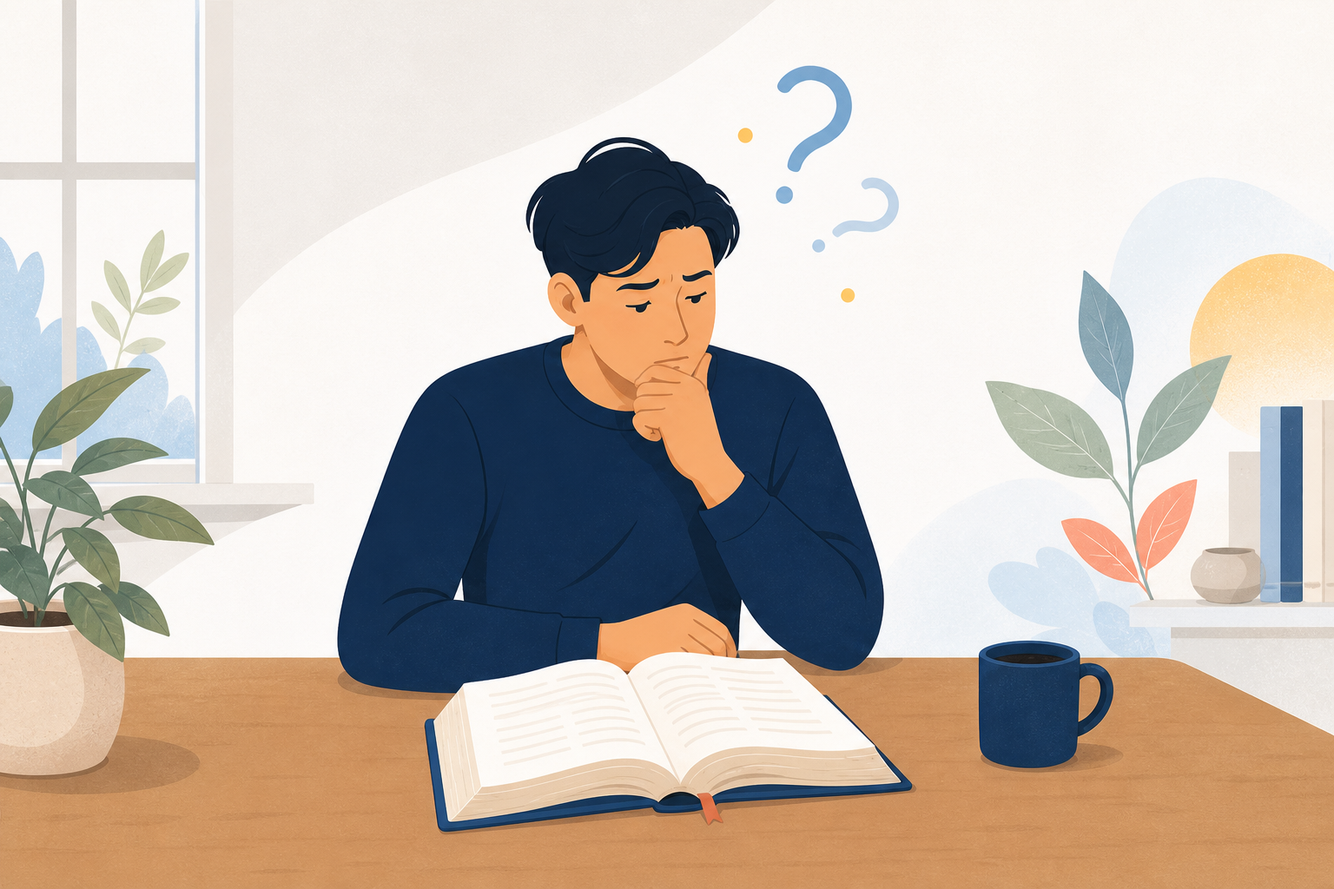
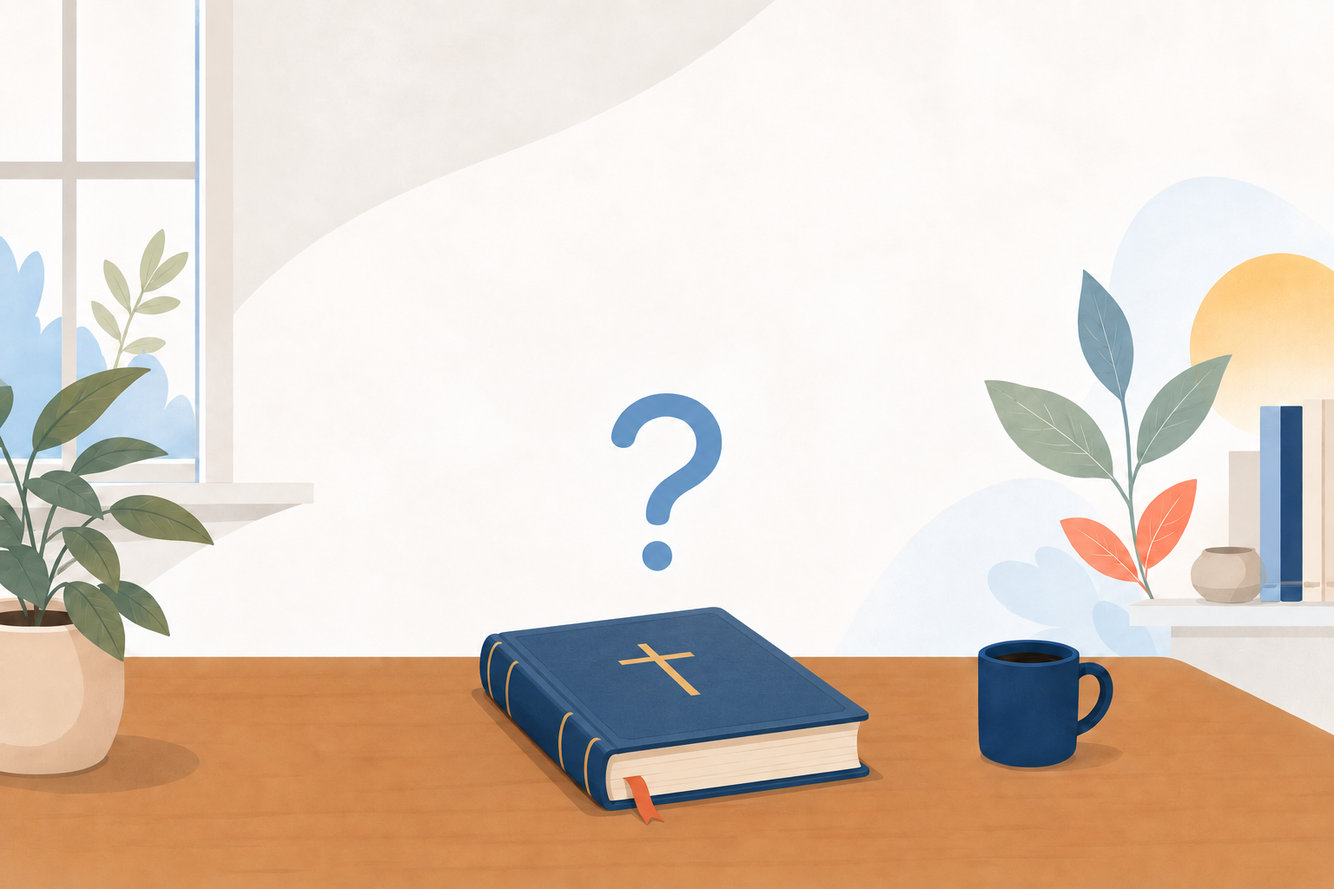
Update Bible Recorder multilingual story pages

diff --git a/rab/index_ko.html b/rab/index_ko.html
@@ -3,7 +3,7 @@
 <head>
   <meta charset="utf-8">
   <meta name="viewport" content="width=device-width, initial-scale=1">
-  <meta name="description" content="한 절씩 읽고, 한 장씩 모아, 한 권을 완성하는 성경낭독녹음 이야기">
+  <meta name="description" content="손가락으로 짚고, 눈으로 보고, 입으로 읽고, 귀로 듣는 성경낭독녹음 이야기">
   <title>성경낭독녹음 | FCI</title>
   <link rel="icon" href="../images/favicon_FCILOGO_W.ico">
   <link rel="stylesheet" href="../assets/fci-large-text.css">
@@ -98,7 +98,7 @@
     .store-links a { border-radius: 8px; transition: transform 0.2s ease; }
     .store-links a:hover, .store-links a:focus-visible { transform: translateY(-2px); }
     .store-links img { display: block; width: auto; height: 42px; }
-    footer { padding: 0 20px 34px; color: var(--muted); text-align: center; font-size: 12px; }
+    footer { margin-top: 23px; padding: 14px 20px 34px; border-top: 1px solid var(--line); color: var(--muted); text-align: left; font-size: .82rem; }
 
     @media (max-width: 820px) {
       .page { padding: 18px 14px 28px; }
@@ -126,7 +126,6 @@
       .app-icon { width: 64px; height: 64px; border-radius: 18px; }
       .brand-fci-home { width: 34px; }
       .brand-copy h1 { white-space: nowrap; }
-      .brand-copy .hero-copy { white-space: nowrap; overflow: hidden; }
       .story-card summary { grid-template-columns: 38px minmax(0, 1fr) 28px; gap: 10px; min-height: 60px; padding: 11px 12px; }
       .story-number { width: 36px; height: 36px; }
       .story-content { padding: 0 12px 16px; }
@@ -183,7 +182,7 @@
       <section class="intro" aria-label="성경낭독녹음 소개">
         <div class="brand-row">
           <img class="app-icon" src="../images/Logo_RAB.png" alt="성경낭독녹음 앱 아이콘">
-          <div class="brand-copy"><span class="kicker">A New Way to Read the Bible</span><h1>성경낭독녹음</h1><p class="hero-copy">한 절씩 읽고, 한 장씩 모아, 한 권을 완성합니다.</p></div>
+          <div class="brand-copy"><h1>성경낭독녹음</h1><p class="hero-copy">손가락으로 짚고, 눈으로 보고, 입으로 읽고, 귀로 듣는 말씀</p></div>
           <a class="brand-fci-home" href="../home/index_ko.html" aria-label="FCI 홈으로 이동"><picture><source media="(max-width: 640px)" srcset="../images/FCI_basic_logo.png"><img src="../images/FCILOGOwithText.png" alt="FCI Factory of Creative Imagination"></picture></a>
         </div>
       </section>
@@ -194,35 +193,31 @@
         <div class="story-list">
           <details class="story-card">
             <summary><span class="story-number">01</span><h2 class="story-title">성경, 읽어 보셨나요?</h2><span class="chevron" aria-hidden="true">⌄</span></summary>
-            <div class="story-content"><div class="story-layout"><div class="story-copy"><p>눈으로만 읽거나 귀로만 듣는 것이 아니라, 내 목소리로 소리 내어 읽어 보신 적 있으신가요?</p><p>성경은 원래 소리 내어 읽는 말씀이 아니었을까요?</p></div><div class="story-art-wrap"><img class="story-art" src="assets/rab-index2-01.png" alt="성경 앞에서 어떻게 읽을지 고민하는 사람"></div></div></div>
+            <div class="story-content"><div class="story-layout"><div class="story-copy"><p>눈으로만 읽거나 귀로만 듣는 것이 아니라, 소리 내어 읽어 보신 적 있으신가요?</p><p>성경은 원래 소리 내어 읽는 말씀이 아니었을까요?</p></div><div class="story-art-wrap"><img class="story-art" src="assets/rab-index2-01.png" alt="닫힌 성경책 위에 물음표가 있는 모습"></div></div></div>
           </details>
           <details class="story-card">
-            <summary><span class="story-number">02</span><h2 class="story-title">한 절씩 읽으면 무엇이 달라질까요?</h2><span class="chevron" aria-hidden="true">⌄</span></summary>
-            <div class="story-content"><div class="story-layout"><div class="story-copy"><p>성경을 읽었는데도 읽은 것 같지 않을 때가 있지 않으셨나요?</p><p>말씀이 쉽게 지나가는 것처럼 느껴질 때도 있으셨죠?</p><p>그 말씀이 내 목소리로 남는다고 생각하면,<br>또는 누군가에게 직접 읽어 준다고 생각하면 조금 달라지지 않을까요?</p></div><div class="story-art-wrap"><img class="story-art" src="assets/rab-index2-02.png" alt="성경을 소리 내어 읽는 사람"></div></div></div>
+            <summary><span class="story-number">02</span><h2 class="story-title">성경을 읽는 일, 쉽지 않으시죠?</h2><span class="chevron" aria-hidden="true">⌄</span></summary>
+            <div class="story-content"><div class="story-layout"><div class="story-copy"><p>읽어야지 하면서도 자꾸 미루게 되지 않으셨나요?</p><p>성경을 읽으려고 해도 성경을 펼치는 일부터 쉽지 않으셨죠?</p><p>그리고, 성경을 읽었는데도 읽은 것 같지 않을 때도 있지 않으셨나요?</p><p>말씀이 쉽게 지나가는 것처럼 느껴질 때도 있으셨죠?</p></div><div class="story-art-wrap"><img class="story-art" src="assets/rab-index2-02.png" alt="성경을 펼쳐 놓고 고민하는 사람"></div></div></div>
           </details>
           <details class="story-card">
-            <summary><span class="story-number">03</span><h2 class="story-title">읽은 말씀은 어떻게 남을까요?</h2><span class="chevron" aria-hidden="true">⌄</span></summary>
-            <div class="story-content"><div class="story-layout"><div class="story-copy"><p>AI 음성으로 읽어 주는 성경을 들어 보신 적 있으신가요? 많이 어색하죠.</p><p>성우나 유명인이 읽어 주는 성경도 물론 좋겠지만,<br>우리 아이들과 손주들에게 우리의 목소리로 읽은 성경을 남겨 줄 수 있다면 어떨까요?</p><p>오늘 읽은 말씀을 당신의 목소리로 남길 수 있다면 어떨까요?</p></div><div class="story-art-wrap"><img class="story-art" src="assets/rab-index2-03.png" alt="어른의 목소리가 아이에게 전해지는 모습"></div></div></div>
+            <summary><span class="story-number">03</span><h2 class="story-title">성경낭독녹음, 성경을 읽는 새로운 방법입니다.</h2><span class="chevron" aria-hidden="true">⌄</span></summary>
+            <div class="story-content"><div class="story-layout"><div class="story-copy"><p>한 절씩 손가락으로 짚어가며, 눈으로 보고, 입으로 읽고, 귀로 듣기 때문에 온전히 말씀에 집중할 수 있습니다.</p><p>하루 3분만이라도, 하나님과 나만의 시간을 만들어, 성경낭독녹음을 해 보세요.</p><p>중요한 것은 녹음 파일을 남기는 것만이 아니라, 말씀에 집중하는 시간을 만드는 것입니다.</p><p>혹시 누군가 듣게 되어 어색하더라도 “녹음 중이에요.”라고 말하면 도움이 될 것입니다.</p></div><div class="story-art-wrap"><img class="story-art" src="assets/rab-index2-03.png" alt="휴대폰을 들고 한 절을 짚으며 소리 내어 읽는 여성"></div></div></div>
           </details>
           <details class="story-card">
-            <summary><span class="story-number">04</span><h2 class="story-title">성경낭독녹음으로 읽어보세요.</h2><span class="chevron" aria-hidden="true">⌄</span></summary>
-            <div class="story-content"><div class="story-layout"><div class="story-copy"><p>당신이 읽은 말씀은 당신의 목소리 그대로 한 절씩 녹음되어 저장됩니다.</p><p>한 절의 녹음이 모여 한 장의 낭독 파일이 되고, 한 장의 기록이 모여 한 권의 낭독 파일이 됩니다.</p><p>Google Drive 백업과 복원을 통해 휴대폰을 바꾸어도 소중한 낭독 기록을 보관할 수 있습니다.</p><p>교회와 공동체에서는 함께 성경을 읽고, 성경읽기 대회를 진행할 수도 있습니다.</p></div><div class="story-art-wrap"><img class="story-art" src="assets/rab-index2-04.png" alt="여러 사람이 함께 성경을 읽는 모습"><span class="story-art-logo"><img src="../images/Logo_RAB.png" alt="성경낭독녹음 로고"></span></div></div>
+            <summary><span class="story-number">04</span><h2 class="story-title">오늘부터 한 절씩 시작해 보세요.</h2><span class="chevron" aria-hidden="true">⌄</span></summary>
+            <div class="story-content"><div class="story-layout"><div class="story-copy"><p>읽은 말씀은 내 목소리로 녹음되어 저장됩니다.</p><p>Google Drive 백업과 복원을 통해 휴대폰을 바꾸어도 소중한 기록을 지킬 수 있습니다.</p><p>교회와 공동체에서는 함께 성경을 읽고, 성경읽기 대회로 서로 권면할 수도 있습니다.</p><p>한 절이 모여 한 장이 되고, 한 장이 모여 한 권이 되어, 온전히 나에게 주시는 말씀이 됩니다.</p></div><div class="story-art-wrap"><img class="story-art" src="assets/rab-index2-04.png" alt="여러 사람이 스마트폰으로 함께 성경을 읽는 모습"><span class="story-art-logo"><img src="../images/Logo_RAB.png" alt="성경낭독녹음 로고"></span></div></div>
               <!-- 다국어 버전 제작 시 아래 solution-videos 블록과 관련 스크립트를 제거합니다. 한국어 버전에만 영상을 제공합니다. -->
               <div class="solution-videos"><h3>성경낭독녹음은 이렇게 시작됩니다.</h3><div class="video-grid"><article class="video-card"><div class="video-frame"><button class="video-poster" type="button" data-video-id="wHFEWlhePFA" aria-label="성경을 소리 내어 읽고 녹음하는 영상 재생" style="background-image:url('https://i.ytimg.com/vi/wHFEWlhePFA/hqdefault.jpg')"><span class="play" aria-hidden="true"></span></button></div><p class="video-title">성경을 소리 내어 읽고 녹음하는 이야기</p></article><article class="video-card"><div class="video-frame"><button class="video-poster" type="button" data-video-id="ojqtIRVxbxk" aria-label="목소리로 남기는 성경 이야기 영상 재생" style="background-image:url('https://i.ytimg.com/vi/ojqtIRVxbxk/hqdefault.jpg')"><span class="play" aria-hidden="true"></span></button></div><p class="video-title">내 목소리로 남기는 성경 이야기</p></article></div></div></div>
-          </details>
-          <details class="story-card">
-            <summary><span class="story-number">05</span><h2 class="story-title">오늘부터 한 절씩 시작해 보세요.</h2><span class="chevron" aria-hidden="true">⌄</span></summary>
-            <div class="story-content"><div class="story-layout"><div class="story-copy"><p>오늘 읽은 한 절이 내 목소리로 남는 기록이 됩니다.</p><p><strong>한 절씩 읽고, 한 장씩 모아, 한 권을 완성합니다.</strong></p><p>그리고 그 한 권이 성경통독으로 이어집니다.</p><p>성경낭독녹음과 함께 오늘부터 한 절씩 시작해 보세요.</p></div><div class="story-art-wrap"><img class="story-art" src="assets/rab-index2-05.png" alt="녹음에서 성경책으로 이어지는 여정"></div></div></div>
           </details>
         </div>
       </section>
 
       <section class="closing" aria-label="성경낭독녹음 다운로드">
-        <div class="closing-copy"><p>오늘 읽고 녹음한 한 절이<br>당신을 위한 말씀으로 남을 것입니다.</p><span>읽는 말씀에서, 남기는 말씀으로.</span></div>
+        <div class="closing-copy"><p>한 절의 말씀에,<br>손과 눈과 입과 귀를 모아 온전히 집중해 보세요.</p><span>보거나 듣는 말씀에서, 읽는 말씀으로.</span></div>
         <div class="store-links"><a href="https://apps.apple.com/app/id1554443046" target="_blank" rel="noopener"><img src="../images/Download_apple.png" alt="App Store에서 다운로드"></a><a href="https://play.google.com/store/apps/details?id=life.fci.recordaloudbible" target="_blank" rel="noopener"><img src="../images/Download_google.png" alt="Google Play에서 다운로드"></a></div>
       </section>
     </main>
-    <footer>Copyright FCI. All rights reserved.</footer>
+    <footer><span>© FCI Inc. Factory of Creative Imagination.</span></footer>
   </div>
   <!-- 다국어 버전 제작 시 위 영상 블록과 함께 아래 영상 재생 스크립트도 제거합니다. -->
   <script>

diff --git a/rab/index_ja.html b/rab/index_ja.html
@@ -3,7 +3,7 @@
 <head>
   <meta charset="utf-8">
   <meta name="viewport" content="width=device-width, initial-scale=1">
-  <meta name="description" content="一節ずつ読み、一章ずつ重ね、一冊を完成する聖書音読録音。自分の声で聖書を読み、記録します。">
+  <meta name="description" content="指で一節をなぞり、目で見て、口で読み、耳で聞く。聖書を読む新しい方法です。">
   <title>聖書音読録音 | FCI</title>
   <link rel="icon" href="../images/favicon_FCILOGO_W.ico">
   <style>
@@ -52,7 +52,7 @@
     .store-links a { border-radius:8px; transition:transform .2s ease; }
     .store-links a:hover,.store-links a:focus-visible { transform:translateY(-2px); }
     .store-links img { display:block; width:auto; height:42px; }
-    footer { padding:0 20px 34px; color:var(--muted); text-align:center; font-size:12px; }
+    footer { margin-top:23px; padding:14px 20px 34px; border-top:1px solid var(--line); color:var(--muted); text-align:left; font-size:.82rem; }
     @media (max-width:820px) {
       .page { padding:18px 14px 28px; }
       .story-layout { display:block; }
@@ -85,23 +85,22 @@
       <section class="intro" aria-label="聖書音読録音の紹介">
         <div class="brand-row">
           <img class="app-icon" src="../images/Logo_RAB.png" alt="聖書音読録音アプリアイコン">
-          <div class="brand-copy"><span class="kicker">聖書を読む新しい方法</span><h1>聖書音読録音</h1><p class="hero-copy">一節ずつ読み、一章ずつ積み重ね、<br>一冊を完成させます。</p></div>
+          <div class="brand-copy"><h1>聖書音読録音</h1><p class="hero-copy">指で一節をなぞり、目で見て、口で読み、耳で聞く聖書</p></div>
           <a class="brand-fci-home" href="../home/index_ja.html" aria-label="FCIホームへ移動"><picture><source media="(max-width:640px)" srcset="../images/FCI_basic_logo.png"><img src="../images/FCILOGOwithText.png" alt="FCI Factory of Creative Imagination"></picture></a>
         </div>
       </section>
       <section class="storyline" aria-label="聖書音読録音のストーリー">
         <p class="section-heading">下のタイトルを選んで、聖書音読録音のストーリーをご覧ください。</p>
         <div class="story-list">
-          <details class="story-card"><summary><span class="story-number">01</span><h2 class="story-title">聖書を、読んだことがありますか？</h2><span class="chevron" aria-hidden="true">⌄</span></summary><div class="story-content"><div class="story-layout"><div class="story-copy"><p>目で読むだけでもなく、耳で聞くだけでもなく、ご自身の声で、声に出して読んだことがありますか？</p><p>聖書は、本来声に出して読むものだったのではないでしょうか。</p></div><div class="story-art-wrap"><img class="story-art" src="assets/rab-index2-01.png" alt="聖書をどう読もうか考えている人"></div></div></div></details>
-          <details class="story-card"><summary><span class="story-number">02</span><h2 class="story-title">自分の声で聖書を読むと、何が変わるでしょうか？</h2><span class="chevron" aria-hidden="true">⌄</span></summary><div class="story-content"><div class="story-layout"><div class="story-copy"><p>聖書を読んでも、読んだ気がしないことはありませんか？</p><p>御言葉が心を通り過ぎてしまうように感じたことはありませんか？</p><p>その言葉が自分の声で残るとしたら。<br>また、誰かに直接読み聞かせるように読んだとしたら。</p><p>聖書の読み方が、少し変わるかもしれません。</p></div><div class="story-art-wrap"><img class="story-art" src="assets/rab-index2-02.png" alt="聖書を声に出して読んでいる人"></div></div></div></details>
-          <details class="story-card"><summary><span class="story-number">03</span><h2 class="story-title">読んだ御言葉は、どのように残るでしょうか？</h2><span class="chevron" aria-hidden="true">⌄</span></summary><div class="story-content"><div class="story-layout"><div class="story-copy"><p>AI音声で読まれる聖書を聞いたことがありますか？少し距離を感じることもあるのではないでしょうか。</p><p>プロのナレーターや有名人の声で聞く聖書も素晴らしいものです。</p><p>でも、子どもたちや孫たちに、あなた自身の声で読んだ聖書を残せたらどうでしょうか。</p><p>今日読んだ御言葉が、あなたの声で長く残るとしたら。</p></div><div class="story-art-wrap"><img class="story-art" src="assets/rab-index2-03.png" alt="大人の声が子どもに届けられる様子"></div></div></div></details>
-          <details class="story-card"><summary><span class="story-number">04</span><h2 class="story-title">聖書音読録音を、始めてみませんか？</h2><span class="chevron" aria-hidden="true">⌄</span></summary><div class="story-content"><div class="story-layout"><div class="story-copy"><p>読んだ御言葉は、一節ずつあなた自身の声で録音されます。</p><p>一節が集まって一章になり、<br>一章が集まって一冊の聖書になります。</p><p>読んだ分だけ、聖書の進み具合を確認できます。</p><p>Google Driveに録音をバックアップ・復元できるため、機種変更をしても大切な記録を守ることができます。</p><p>教会やグループで一緒に読み、聖書通読チャレンジを開催することもできます。</p><p>聖書音読録音は、韓国で登録された特許技術を基に開発されています。<br>特許 第10-2322160号</p></div><div class="story-art-wrap"><img class="story-art" src="assets/rab-index2-04.png" alt="人々が一緒に聖書を読んでいる様子"><span class="story-art-logo"><img src="../images/Logo_RAB.png" alt="聖書音読録音のロゴ"></span></div></div></div></details>
-          <details class="story-card"><summary><span class="story-number">05</span><h2 class="story-title">今日から、一節ずつ始めましょう。</h2><span class="chevron" aria-hidden="true">⌄</span></summary><div class="story-content"><div class="story-layout"><div class="story-copy"><p>今日読んで録音した一節が、あなたのための御言葉として残ります。</p><p><strong>一節ずつ読み、一章ずつ積み重ね、一冊を完成させます。</strong></p><p>一冊の完成が、聖書全体を読み通す歩みにつながります。</p><p>聖書音読録音と一緒に、今日から一節ずつ始めましょう。</p></div><div class="story-art-wrap"><img class="story-art" src="assets/rab-index2-05.png" alt="録音から一冊の聖書へ続く歩み"></div></div></div></details>
+          <details class="story-card"><summary><span class="story-number">01</span><h2 class="story-title">聖書を、読んだことがありますか？</h2><span class="chevron" aria-hidden="true">⌄</span></summary><div class="story-content"><div class="story-layout"><div class="story-copy"><p>目で読むだけでもなく、耳で聞くだけでもなく、声に出して読んだことがありますか？</p><p>聖書は、もともと声に出して読むものだったのではないでしょうか。</p></div><div class="story-art-wrap"><img class="story-art" src="assets/rab-index2-01.png" alt="閉じた聖書の上に浮かぶ疑問符"></div></div></div></details>
+          <details class="story-card"><summary><span class="story-number">02</span><h2 class="story-title">聖書を読むのは、簡単ではありませんよね？</h2><span class="chevron" aria-hidden="true">⌄</span></summary><div class="story-content"><div class="story-layout"><div class="story-copy"><p>読もうと思っても、つい先延ばしにしてしまうことはありませんか？</p><p>聖書を読もうとしても、聖書を開くことから難しく感じることもありますよね。</p><p>読んだはずなのに、読んだ気がしないことはありませんか？</p><p>御言葉が心を通り過ぎてしまうように感じたこともあるのではないでしょうか。</p></div><div class="story-art-wrap"><img class="story-art" src="assets/rab-index2-02.png" alt="開いた聖書を前に考え込む男性"></div></div></div></details>
+          <details class="story-card"><summary><span class="story-number">03</span><h2 class="story-title">聖書音読録音は、聖書を読む新しい方法です。</h2><span class="chevron" aria-hidden="true">⌄</span></summary><div class="story-content"><div class="story-layout"><div class="story-copy"><p>一節ずつ指でなぞりながら、目で見て、口で読み、耳で聞くことで、御言葉に心を集中できます。</p><p>一日3分でも、神様と自分だけの時間をつくって、聖書音読録音を始めてみてください。</p><p>大切なのは録音ファイルを残すことだけではなく、御言葉に集中する時間をつくることです。</p><p>誰かに聞かれて気まずくなっても、「録音中です」と言えば、自然に続けられます。</p></div><div class="story-art-wrap"><img class="story-art" src="assets/rab-index2-03.png" alt="スマートフォンの一節を指でなぞりながら音読する女性"></div></div></div></details>
+          <details class="story-card"><summary><span class="story-number">04</span><h2 class="story-title">今日から、一節ずつ始めましょう。</h2><span class="chevron" aria-hidden="true">⌄</span></summary><div class="story-content"><div class="story-layout"><div class="story-copy"><p>読んだ御言葉は、あなた自身の声で録音され、保存されます。</p><p>Google Driveに録音をバックアップ・復元できるため、機種変更をしても大切な記録を守ることができます。</p><p>教会やグループで一緒に読み、聖書通読チャレンジで互いに励まし合うこともできます。</p><p>一節が集まって一章に、一章が集まって一冊になり、神様が私に語りかけてくださる御言葉になります。</p></div><div class="story-art-wrap"><img class="story-art" src="assets/rab-index2-04.png" alt="スマートフォンで一緒に聖書を読む人々"><span class="story-art-logo"><img src="../images/Logo_RAB.png" alt="聖書音読録音のロゴ"></span></div></div></div></details>
         </div>
       </section>
-      <section class="closing" aria-label="聖書音読録音のダウンロード"><div class="closing-copy"><p>今日の一節を、<br>あなたの声で。</p><span>読むだけでなく、声に残す。</span></div><div class="store-links"><a href="https://apps.apple.com/app/id1554443046" target="_blank" rel="noopener"><img src="../images/Download_apple.png" alt="App Storeからダウンロード"></a><a href="https://play.google.com/store/apps/details?id=life.fci.recordaloudbible" target="_blank" rel="noopener"><img src="../images/Download_google.png" alt="Google Playで手に入れよう"></a></div></section>
+      <section class="closing" aria-label="聖書音読録音のダウンロード"><div class="closing-copy"><p>一節の御言葉に、<br>手と目と口と耳を使って、心を込めて集中してみてください。</p><span>見る・聞くだけの御言葉から、読む御言葉へ。</span></div><div class="store-links"><a href="https://apps.apple.com/app/id1554443046" target="_blank" rel="noopener"><img src="../images/Download_apple.png" alt="App Storeからダウンロード"></a><a href="https://play.google.com/store/apps/details?id=life.fci.recordaloudbible" target="_blank" rel="noopener"><img src="../images/Download_google.png" alt="Google Playで手に入れよう"></a></div></section>
     </main>
-    <footer>Copyright FCI. All rights reserved.</footer>
+    <footer><span>© FCI Inc. Factory of Creative Imagination.</span></footer>
   </div>
 </body>
 </html>

diff --git a/rab/index_zh-TW.html b/rab/index_zh-TW.html
@@ -3,7 +3,7 @@
 <head>
   <meta charset="utf-8">
   <meta name="viewport" content="width=device-width, initial-scale=1">
-  <meta name="description" content="一節一節朗讀，一章一章累積，完成一卷聖經。用自己的聲音讀聖經並留下記錄。">
+  <meta name="description" content="用手指逐節指讀，用眼看、用口讀、用耳聽，讓自己專心讀聖經。">
   <title>聖經朗讀錄音 | FCI</title>
   <link rel="icon" href="../images/favicon_FCILOGO_W.ico">
   <style>
@@ -13,19 +13,19 @@
     @media(max-width:640px){.closing{display:grid;grid-template-columns:minmax(0,1fr) auto;align-items:center;gap:12px;padding:18px 16px;border-radius:16px}.closing p{font-size:clamp(13px,4.2vw,20px)}.closing-copy span{font-size:clamp(10px,2.8vw,.82rem);white-space:nowrap}.store-links{flex-direction:column;align-items:flex-end;gap:6px}.store-links img{height:30px}.intro{gap:12px}.brand-row{gap:12px}.app-icon{width:64px;height:64px;border-radius:18px}.brand-fci-home{width:34px}.brand-copy h1{white-space:nowrap}.brand-copy .hero-copy{white-space:normal}.story-card summary{grid-template-columns:38px minmax(0,1fr) 28px;gap:10px;min-height:60px;padding:11px 12px}.story-number{width:36px;height:36px}.story-content{padding:0 12px 16px}}
     @media(prefers-reduced-motion:reduce){html{scroll-behavior:auto}*{transition:none!important}}
   /* Shared story heading scale */ .kicker { display:inline-flex; justify-self:start; min-height:26px; align-items:center; padding:0 10px; border-radius:999px; background:rgba(225,189,112,.28); color:var(--gold-deep); font-size:.82rem; font-weight:800; } h1 { font-size: clamp(1.64rem, 4.6vw, 2.64rem); line-height: 1.18; } .hero-copy { font-size: clamp(1rem, 2vw, 1.16rem); }
+.footer, footer { margin-top:23px; padding:14px 20px 34px; border-top:1px solid var(--line); color:var(--muted); text-align:left; font-size:.82rem; }
 </style>
 </head>
 <body>
   <div class="page"><main class="hero">
-    <section class="intro" aria-label="聖經朗讀錄音介紹"><div class="brand-row"><img class="app-icon" src="../images/Logo_RAB.png" alt="聖經朗讀錄音 App 圖示"><div class="brand-copy"><span class="kicker">閱讀聖經的新方式</span><h1>聖經朗讀錄音</h1><p class="hero-copy">一節一節朗讀，一章一章累積，<br>完成一卷聖經。</p></div><a class="brand-fci-home" href="../home/index_zh-TW.html" aria-label="前往 FCI 首頁"><picture><source media="(max-width:640px)" srcset="../images/FCI_basic_logo.png"><img src="../images/FCILOGOwithText.png" alt="FCI Factory of Creative Imagination"></picture></a></div></section>
+    <section class="intro" aria-label="聖經朗讀錄音介紹"><div class="brand-row"><img class="app-icon" src="../images/Logo_RAB.png" alt="聖經朗讀錄音 App 圖示"><div class="brand-copy"><h1>聖經朗讀錄音</h1><p class="hero-copy">用手指逐節指讀，用眼看、用口讀、用耳聽的聖經</p></div><a class="brand-fci-home" href="../home/index_zh-TW.html" aria-label="前往 FCI 首頁"><picture><source media="(max-width:640px)" srcset="../images/FCI_basic_logo.png"><img src="../images/FCILOGOwithText.png" alt="FCI Factory of Creative Imagination"></picture></a></div></section>
     <section class="storyline" aria-label="聖經朗讀錄音故事"><p class="section-heading">點選下面的標題，了解聖經朗讀錄音的故事。</p><div class="story-list">
-      <details class="story-card"><summary><span class="story-number">01</span><h2 class="story-title">你真正讀過聖經嗎？</h2><span class="chevron" aria-hidden="true">⌄</span></summary><div class="story-content"><div class="story-layout"><div class="story-copy"><p>你是否曾經用自己的聲音，大聲讀出聖經？</p><p>不只是用眼睛閱讀，也不只是聆聽。</p><p>聖經，本來是不是應該大聲讀出來？</p></div><div class="story-art-wrap"><img class="story-art" src="assets/rab-index2-01.png" alt="思考該如何朗讀聖經的人"></div></div></div></details>
-      <details class="story-card"><summary><span class="story-number">02</span><h2 class="story-title">用自己的聲音讀聖經，會有什麼不同？</h2><span class="chevron" aria-hidden="true">⌄</span></summary><div class="story-content"><div class="story-layout"><div class="story-copy"><p>有時候，明明讀完了，卻覺得自己並沒有真正讀進去。</p><p>神的話語，彷彿很快就從心中流過。</p><p>如果這些話語能留在你的聲音裡，<br>如果你像讀給某個人聽一樣大聲讀出來，</p><p>你的讀經方式會不會有所不同？</p></div><div class="story-art-wrap"><img class="story-art" src="assets/rab-index2-02.png" alt="正在大聲朗讀聖經的人"></div></div></div></details>
-      <details class="story-card"><summary><span class="story-number">03</span><h2 class="story-title">讀過的經文，如何留在心裡？</h2><span class="chevron" aria-hidden="true">⌄</span></summary><div class="story-content"><div class="story-layout"><div class="story-copy"><p>你聽過由 AI 語音朗讀的聖經嗎？有時會讓人感到有些距離。</p><p>專業播音員或知名人士朗讀的聖經當然也很有意義。</p><p>但如果能把用自己聲音朗讀的聖經，留給孩子和孫子女，會怎麼樣呢？</p><p>如果今天讀過的神的話語，能長久留在你的聲音裡呢？</p></div><div class="story-art-wrap"><img class="story-art" src="assets/rab-index2-03.png" alt="長輩的聲音傳給孩子的場景"></div></div></div></details>
-      <details class="story-card"><summary><span class="story-number">04</span><h2 class="story-title">試試聖經朗讀錄音吧。</h2><span class="chevron" aria-hidden="true">⌄</span></summary><div class="story-content"><div class="story-layout"><div class="story-copy"><p>你讀過的經文，會一節一節錄下你自己的聲音。</p><p>一節節經文匯成一章，<br>一章章經文匯成一卷聖經。</p><p>你可以隨時查看自己的讀經進度。</p><p>透過 Google Drive 備份與還原錄音，即使更換手機，也能保存珍貴的記錄。</p><p>也可以和教會或小組一起讀經，舉辦讀經挑戰。</p><p>聖經朗讀錄音是根據韓國註冊專利技術開發。<br>韓國專利 第10-2322160號</p></div><div class="story-art-wrap"><img class="story-art" src="assets/rab-index2-04.png" alt="人們一起閱讀聖經的場景"><span class="story-art-logo"><img src="../images/Logo_RAB.png" alt="聖經朗讀錄音標誌"></span></div></div></div></details>
-      <details class="story-card"><summary><span class="story-number">05</span><h2 class="story-title">今天，就從一節開始。</h2><span class="chevron" aria-hidden="true">⌄</span></summary><div class="story-content"><div class="story-layout"><div class="story-copy"><p>今天朗讀並錄下的這一節，將成為屬於你的經文。</p><p><strong>一節一節朗讀，一章一章累積，完成一卷聖經。</strong></p><p>完成一卷聖經，也將帶你更接近讀完整本聖經。</p><p>和聖經朗讀錄音一起，今天就從一節開始。</p></div><div class="story-art-wrap"><img class="story-art" src="assets/rab-index2-05.png" alt="從錄音走向完整聖經的旅程"></div></div></div></details>
+      <details class="story-card"><summary><span class="story-number">01</span><h2 class="story-title">你讀過聖經嗎？</h2><span class="chevron" aria-hidden="true">⌄</span></summary><div class="story-content"><div class="story-layout"><div class="story-copy"><p>你是否不只是用眼睛讀、用耳朵聽，也曾用自己的聲音把聖經讀出來？</p><p>聖經，原本不就是應該大聲讀出來的嗎？</p></div><div class="story-art-wrap"><img class="story-art" src="assets/rab-index2-01.png" alt="閉合的聖經上方有一個問號"></div></div></div></details>
+      <details class="story-card"><summary><span class="story-number">02</span><h2 class="story-title">讀聖經，並不容易，對嗎？</h2><span class="chevron" aria-hidden="true">⌄</span></summary><div class="story-content"><div class="story-layout"><div class="story-copy"><p>你是否也常常想著「該讀聖經了」，卻一拖再拖？</p><p>即使想讀，從拿起聖經、翻開它開始，也並不容易，對嗎？</p><p>有時明明讀完了，卻覺得自己好像並沒有真正讀過。</p><p>神的話語，彷彿一轉眼就從心裡流過了。</p></div><div class="story-art-wrap"><img class="story-art" src="assets/rab-index2-02.png" alt="一位男子在翻開的聖經前思考"></div></div></div></details>
+      <details class="story-card"><summary><span class="story-number">03</span><h2 class="story-title">聖經朗讀錄音，是閱讀聖經的新方式。</h2><span class="chevron" aria-hidden="true">⌄</span></summary><div class="story-content"><div class="story-layout"><div class="story-copy"><p>一節一節用手指指著讀，用眼看、用口讀、用耳聽，就能全心專注在神的話語上。</p><p>每天即使只有3分鐘，也為神和自己留出一段時間，試試聖經朗讀錄音吧。</p><p>重要的不只是留下錄音檔案，更是留下一段專心讀神話語的時間。</p><p>即使有人聽見而覺得有些尷尬，也可以說：「我正在錄音。」這樣就能自然地繼續下去。</p></div><div class="story-art-wrap"><img class="story-art" src="assets/rab-index2-03.png" alt="一位女性拿著手機，指著其中一節經文朗讀"></div></div></div></details>
+      <details class="story-card"><summary><span class="story-number">04</span><h2 class="story-title">今天，就從一節開始。</h2><span class="chevron" aria-hidden="true">⌄</span></summary><div class="story-content"><div class="story-layout"><div class="story-copy"><p>讀過的經文會用你的聲音錄下並保存。</p><p>透過 Google Drive 備份與還原錄音，即使更換手機，也能保存珍貴的記錄。</p><p>教會和團契可以一起讀經，舉辦讀經挑戰，彼此鼓勵。</p><p>一節一節匯成一章，一章一章匯成一卷，成為神今天賜給我的話語。</p></div><div class="story-art-wrap"><img class="story-art" src="assets/rab-index2-04.png" alt="人們用手機一起閱讀聖經"><span class="story-art-logo"><img src="../images/Logo_RAB.png" alt="聖經朗讀錄音標誌"></span></div></div></div></details>
     </div></section>
-    <section class="closing" aria-label="聖經朗讀錄音下載"><div class="closing-copy"><p>今天的一節經文，<br>留在你的聲音裡。</p><span>不只是閱讀，也用聲音記錄。</span></div><div class="store-links"><a href="https://apps.apple.com/app/id1554443046" target="_blank" rel="noopener"><img src="../images/Download_apple.png" alt="從 App Store 下載"></a><a href="https://play.google.com/store/apps/details?id=life.fci.recordaloudbible" target="_blank" rel="noopener"><img src="../images/Download_google.png" alt="在 Google Play 取得"></a></div></section>
-  </main><footer>Copyright FCI. All rights reserved.</footer></div>
+    <section class="closing" aria-label="聖經朗讀錄音下載"><div class="closing-copy"><p>專心於一節經文，<br>用手、眼、口、耳，全心投入。</p><span>從觀看、聆聽聖經，到親口讀出聖經。</span></div><div class="store-links"><a href="https://apps.apple.com/app/id1554443046" target="_blank" rel="noopener"><img src="../images/Download_apple.png" alt="從 App Store 下載"></a><a href="https://play.google.com/store/apps/details?id=life.fci.recordaloudbible" target="_blank" rel="noopener"><img src="../images/Download_google.png" alt="在 Google Play 取得"></a></div></section>
+  </main><footer><span>© FCI Inc. Factory of Creative Imagination.</span></footer></div>
 </body>
 </html>

diff --git a/rab/index_zh-CN.html b/rab/index_zh-CN.html
@@ -13,19 +13,19 @@
     @media(max-width:640px){.closing{display:grid;grid-template-columns:minmax(0,1fr) auto;align-items:center;gap:12px;padding:18px 16px;border-radius:16px}.closing p{font-size:clamp(13px,4.2vw,20px)}.closing-copy span{font-size:clamp(10px,2.8vw,.82rem);white-space:nowrap}.store-links{flex-direction:column;align-items:flex-end;gap:6px}.store-links img{height:30px}.intro{gap:12px}.brand-row{gap:12px}.app-icon{width:64px;height:64px;border-radius:18px}.brand-fci-home{width:34px}.brand-copy h1{white-space:nowrap}.brand-copy .hero-copy{white-space:normal}.story-card summary{grid-template-columns:38px minmax(0,1fr) 28px;gap:10px;min-height:60px;padding:11px 12px}.story-number{width:36px;height:36px}.story-content{padding:0 12px 16px}}
     @media(prefers-reduced-motion:reduce){html{scroll-behavior:auto}*{transition:none!important}}
   /* Shared story heading scale */ .kicker { display:inline-flex; justify-self:start; min-height:26px; align-items:center; padding:0 10px; border-radius:999px; background:rgba(225,189,112,.28); color:var(--gold-deep); font-size:.82rem; font-weight:800; } h1 { font-size: clamp(1.64rem, 4.6vw, 2.64rem); line-height: 1.18; } .hero-copy { font-size: clamp(1rem, 2vw, 1.16rem); }
+.footer, footer { margin-top:23px; padding:14px 20px 34px; border-top:1px solid var(--line); color:var(--muted); text-align:left; font-size:.82rem; }
 </style>
 </head>
 <body>
   <div class="page"><main class="hero">
-    <section class="intro" aria-label="圣经朗读录音介绍"><div class="brand-row"><img class="app-icon" src="../images/Logo_RAB.png" alt="圣经朗读录音应用图标"><div class="brand-copy"><span class="kicker">阅读圣经的新方式</span><h1>圣经朗读录音</h1><p class="hero-copy">一节一节朗读，一章一章积累，<br>完成一卷圣经。</p></div><a class="brand-fci-home" href="../home/index_zh-CN.html" aria-label="前往FCI主页"><picture><source media="(max-width:640px)" srcset="../images/FCI_basic_logo.png"><img src="../images/FCILOGOwithText.png" alt="FCI Factory of Creative Imagination"></picture></a></div></section>
+    <section class="intro" aria-label="圣经朗读录音介绍"><div class="brand-row"><img class="app-icon" src="../images/Logo_RAB.png" alt="圣经朗读录音应用图标"><div class="brand-copy"><h1>圣经朗读录音</h1><p class="hero-copy">用手指逐节指读，用眼看、用口读、用耳听的圣经</p></div><a class="brand-fci-home" href="../home/index_zh-CN.html" aria-label="前往FCI主页"><picture><source media="(max-width:640px)" srcset="../images/FCI_basic_logo.png"><img src="../images/FCILOGOwithText.png" alt="FCI Factory of Creative Imagination"></picture></a></div></section>
     <section class="storyline" aria-label="圣经朗读录音故事"><p class="section-heading">点击下面的标题，了解圣经朗读录音的故事。</p><div class="story-list">
-      <details class="story-card"><summary><span class="story-number">01</span><h2 class="story-title">你真正读过圣经吗？</h2><span class="chevron" aria-hidden="true">⌄</span></summary><div class="story-content"><div class="story-layout"><div class="story-copy"><p>你是否曾经用自己的声音，大声读出圣经？</p><p>不只是用眼睛阅读，也不只是聆听。</p><p>圣经，本来是不是应该大声读出来？</p></div><div class="story-art-wrap"><img class="story-art" src="assets/rab-index2-01.png" alt="思考如何朗读圣经的人"></div></div></div></details>
-      <details class="story-card"><summary><span class="story-number">02</span><h2 class="story-title">用自己的声音读圣经，会有什么不同？</h2><span class="chevron" aria-hidden="true">⌄</span></summary><div class="story-content"><div class="story-layout"><div class="story-copy"><p>有时候，明明读完了，却觉得自己并没有真正读进去。</p><p>神的话语，仿佛很快就从心中流过。</p><p>如果这些话语能留在你的声音里，<br>如果你像在读给某个人听一样大声读出来，</p><p>你的读经方式会不会有所不同？</p></div><div class="story-art-wrap"><img class="story-art" src="assets/rab-index2-02.png" alt="正在大声朗读圣经的人"></div></div></div></details>
-      <details class="story-card"><summary><span class="story-number">03</span><h2 class="story-title">读过的经文，如何留在心里？</h2><span class="chevron" aria-hidden="true">⌄</span></summary><div class="story-content"><div class="story-layout"><div class="story-copy"><p>你听过由 AI 声音朗读的圣经吗？有时会让人感到有些距离。</p><p>专业播音员或知名人士朗读的圣经当然也很有意义。</p><p>但如果能把用自己声音朗读的圣经，留给孩子和孙辈，会怎么样呢？</p><p>如果今天读过的神的话语，能长久留在你的声音里呢？</p></div><div class="story-art-wrap"><img class="story-art" src="assets/rab-index2-03.png" alt="长辈的声音传给孩子的场景"></div></div></div></details>
-      <details class="story-card"><summary><span class="story-number">04</span><h2 class="story-title">试试圣经朗读录音吧。</h2><span class="chevron" aria-hidden="true">⌄</span></summary><div class="story-content"><div class="story-layout"><div class="story-copy"><p>你读过的经文，会一节一节录下你自己的声音。</p><p>一节节经文汇成一章，<br>一章章经文汇成一卷圣经。</p><p>你可以随时查看自己的读经进度。</p><p>通过 Google Drive 备份和恢复录音，即使更换手机，也能保存珍贵的记录。</p><p>还可以和教会或小组一起读经，组织读经挑战。</p><p>圣经朗读录音基于韩国注册专利技术开发。<br>韩国专利 第10-2322160号</p></div><div class="story-art-wrap"><img class="story-art" src="assets/rab-index2-04.png" alt="人们一起阅读圣经的场景"><span class="story-art-logo"><img src="../images/Logo_RAB.png" alt="圣经朗读录音标志"></span></div></div></div></details>
-      <details class="story-card"><summary><span class="story-number">05</span><h2 class="story-title">今天，就从一节开始。</h2><span class="chevron" aria-hidden="true">⌄</span></summary><div class="story-content"><div class="story-layout"><div class="story-copy"><p>今天朗读并录下的这一节，将成为属于你的经文。</p><p><strong>一节一节朗读，一章一章积累，完成一卷圣经。</strong></p><p>完成一卷圣经，也将带你更接近读完整本圣经。</p><p>和圣经朗读录音一起，今天就从一节开始。</p></div><div class="story-art-wrap"><img class="story-art" src="assets/rab-index2-05.png" alt="从录音走向完整圣经的旅程"></div></div></div></details>
+      <details class="story-card"><summary><span class="story-number">01</span><h2 class="story-title">你读过圣经吗？</h2><span class="chevron" aria-hidden="true">⌄</span></summary><div class="story-content"><div class="story-layout"><div class="story-copy"><p>你是否不只是用眼睛读、用耳朵听，也曾用自己的声音把圣经读出来？</p><p>圣经，原本不就是应该大声读出来的吗？</p></div><div class="story-art-wrap"><img class="story-art" src="assets/rab-index2-01.png" alt="闭合的圣经上方有一个问号"></div></div></div></details>
+      <details class="story-card"><summary><span class="story-number">02</span><h2 class="story-title">读圣经，并不容易，对吗？</h2><span class="chevron" aria-hidden="true">⌄</span></summary><div class="story-content"><div class="story-layout"><div class="story-copy"><p>你是否也常常想着“该读圣经了”，却一拖再拖？</p><p>即使想读，从拿起圣经、翻开它开始，也并不容易，对吗？</p><p>有时明明读完了，却觉得自己好像并没有真正读过。</p><p>神的话语，仿佛一转眼就从心里流过去了。</p></div><div class="story-art-wrap"><img class="story-art" src="assets/rab-index2-02.png" alt="一位男子在翻开的圣经前思考"></div></div></div></details>
+      <details class="story-card"><summary><span class="story-number">03</span><h2 class="story-title">圣经朗读录音，是阅读圣经的新方式。</h2><span class="chevron" aria-hidden="true">⌄</span></summary><div class="story-content"><div class="story-layout"><div class="story-copy"><p>一节一节用手指指着读，用眼看、用口读、用耳听，就能全心专注在神的话语上。</p><p>每天哪怕只有3分钟，也为神和自己留出一段时间，试试圣经朗读录音吧。</p><p>重要的不只是留下录音文件，更是留下一段专心读神话语的时间。</p><p>即使有人听见而觉得有些尴尬，也可以说：“我正在录音。”这样就能自然地继续下去。</p></div><div class="story-art-wrap"><img class="story-art" src="assets/rab-index2-03.png" alt="一位女性拿着手机，指着其中一节经文朗读"></div></div></div></details>
+      <details class="story-card"><summary><span class="story-number">04</span><h2 class="story-title">今天，就从一节开始。</h2><span class="chevron" aria-hidden="true">⌄</span></summary><div class="story-content"><div class="story-layout"><div class="story-copy"><p>读过的经文会用你的声音录下并保存。</p><p>通过 Google Drive 备份和恢复录音，即使更换手机，也能保存珍贵的记录。</p><p>教会和团契可以一起读经，举办读经挑战，彼此鼓励。</p><p>一节一节汇成一章，一章一章汇成一卷，成为神今天赐给我的话语。</p></div><div class="story-art-wrap"><img class="story-art" src="assets/rab-index2-04.png" alt="人们用手机一起阅读圣经"><span class="story-art-logo"><img src="../images/Logo_RAB.png" alt="圣经朗读录音标志"></span></div></div></div></details>
     </div></section>
-    <section class="closing" aria-label="圣经朗读录音下载"><div class="closing-copy"><p>今天的一节经文，<br>留在你的声音里。</p><span>不只是阅读，也要用声音记录。</span></div><div class="store-links"><a href="https://apps.apple.com/app/id1554443046" target="_blank" rel="noopener"><img src="../images/Download_apple.png" alt="从 App Store 下载"></a><a href="https://play.google.com/store/apps/details?id=life.fci.recordaloudbible" target="_blank" rel="noopener"><img src="../images/Download_google.png" alt="在 Google Play 获取"></a></div></section>
-  </main><footer>Copyright FCI. All rights reserved.</footer></div>
+    <section class="closing" aria-label="圣经朗读录音下载"><div class="closing-copy"><p>专心于一节经文，<br>用手、眼、口、耳，全心投入。</p><span>从观看、聆听圣经，到亲口读出圣经。</span></div><div class="store-links"><a href="https://apps.apple.com/app/id1554443046" target="_blank" rel="noopener"><img src="../images/Download_apple.png" alt="从 App Store 下载"></a><a href="https://play.google.com/store/apps/details?id=life.fci.recordaloudbible" target="_blank" rel="noopener"><img src="../images/Download_google.png" alt="在 Google Play 获取"></a></div></section>
+  </main><footer><span>© FCI Inc. Factory of Creative Imagination.</span></footer></div>
 </body>
 </html>

diff --git a/rab/index_en.html b/rab/index_en.html
@@ -3,7 +3,7 @@
 <head>
   <meta charset="utf-8">
   <meta name="viewport" content="width=device-width, initial-scale=1">
-  <meta name="description" content="Read one verse, build one chapter, and complete one book with your own voice.">
+  <meta name="description" content="Point to each verse, see it, read it, and hear it in your own voice.">
   <title>Record Aloud Bible | FCI</title>
   <link rel="icon" href="../images/favicon_FCILOGO_W.ico">
   <style>
@@ -53,7 +53,7 @@
     .store-links a { border-radius:8px; transition:transform .2s ease; }
     .store-links a:hover,.store-links a:focus-visible { transform:translateY(-2px); }
     .store-links img { display:block; width:auto; height:42px; }
-    footer { padding:0 20px 34px; color:var(--muted); text-align:center; font-size:12px; }
+    footer { margin-top:23px; padding:14px 20px 34px; border-top:1px solid var(--line); color:var(--muted); text-align:left; font-size:.82rem; }
     @media (max-width:820px) {
       .page { padding:18px 14px 28px; }
       .story-layout { display:block; }
@@ -86,23 +86,22 @@
       <section class="intro" aria-label="Record Aloud Bible introduction">
         <div class="brand-row">
           <img class="app-icon" src="../images/Logo_RAB.png" alt="Record Aloud Bible app icon">
-          <div class="brand-copy"><span class="kicker">A New Way to Read the Bible</span><h1>Record Aloud Bible</h1><p class="hero-copy">Read one verse. Build one chapter.<br>Complete one book.</p></div>
+          <div class="brand-copy"><h1>Record Aloud Bible</h1><p class="hero-copy">Point to each verse, see it, read it, and hear it in your own voice.</p></div>
           <a class="brand-fci-home" href="../home/index_en.html" aria-label="Go to FCI home"><picture><source media="(max-width:640px)" srcset="../images/FCI_basic_logo.png"><img src="../images/FCILOGOwithText.png" alt="FCI Factory of Creative Imagination"></picture></a>
         </div>
       </section>
       <section class="storyline" aria-label="The Record Aloud Bible story">
         <p class="section-heading">Tap a title to explore each part of the story.</p>
         <div class="story-list">
-          <details class="story-card"><summary><span class="story-number">01</span><h2 class="story-title">Have You Ever Read the Bible?</h2><span class="chevron" aria-hidden="true">⌄</span></summary><div class="story-content"><div class="story-layout"><div class="story-copy"><p>Have you ever read the Bible aloud in your own voice?</p><p>Not only with your eyes. Not only by listening.</p><p>Could it be that the Bible was always meant to be read aloud?</p></div><div class="story-art-wrap"><img class="story-art" src="assets/rab-index2-01.png" alt="A person wondering how to read the Bible aloud"></div></div></div></details>
-          <details class="story-card"><summary><span class="story-number">02</span><h2 class="story-title">What If You Read the Bible in Your Own Voice?</h2><span class="chevron" aria-hidden="true">⌄</span></summary><div class="story-content"><div class="story-layout"><div class="story-copy"><p>Have you ever finished reading the Bible but felt as though you had not really read it?</p><p>Have you ever felt God's Word pass by too quickly?</p><p>What if those words stayed with you in your own voice?<br>What if you read them aloud as if you were reading them directly to someone?</p><p>Would that change the way you read?</p></div><div class="story-art-wrap"><img class="story-art" src="assets/rab-index2-02.png" alt="A person reading the Bible aloud"></div></div></div></details>
-          <details class="story-card"><summary><span class="story-number">03</span><h2 class="story-title">How Will the Words You Read Stay With You?</h2><span class="chevron" aria-hidden="true">⌄</span></summary><div class="story-content"><div class="story-layout"><div class="story-copy"><p>Have you ever listened to the Bible read by an AI voice? It can feel a little distant, can't it?</p><p>The Bible read by a professional narrator or a well-known voice can be meaningful, too.</p><p>But what if you could leave your own voice for your children and grandchildren?</p><p>What if the words you read today could remain in your voice for a long time?</p></div><div class="story-art-wrap"><img class="story-art" src="assets/rab-index2-03.png" alt="An older person's voice being shared with a child"></div></div></div></details>
-          <details class="story-card"><summary><span class="story-number">04</span><h2 class="story-title">Let's Try Record Aloud Bible.</h2><span class="chevron" aria-hidden="true">⌄</span></summary><div class="story-content"><div class="story-layout"><div class="story-copy"><p>Read aloud in your own voice, one verse at a time.</p><p>Individual verses come together to create a chapter.<br>Chapters come together to create a complete book.</p><p>Track your Bible reading progress as you go.</p><p>You can back up and restore your recordings with Google Drive, even when you change phones.</p><p>Read together with your church or group, and organize Bible reading challenges.</p></div><div class="story-art-wrap"><img class="story-art" src="assets/rab-index2-04.png" alt="People reading the Bible together"><span class="story-art-logo"><img src="../images/Logo_RAB.png" alt="Record Aloud Bible logo"></span></div></div></div></details>
-          <details class="story-card"><summary><span class="story-number">05</span><h2 class="story-title">Start with One Verse Today.</h2><span class="chevron" aria-hidden="true">⌄</span></summary><div class="story-content"><div class="story-layout"><div class="story-copy"><p>The verse you read and record today can remain with you as a personal word from God.</p><p><strong>Read one verse. Build one chapter. Complete one book.</strong></p><p>Each completed book brings you closer to reading through the whole Bible.</p><p>Start today with Record Aloud Bible.</p></div><div class="story-art-wrap"><img class="story-art" src="assets/rab-index2-05.png" alt="A journey from a recording to a complete Bible"></div></div></div></details>
+          <details class="story-card"><summary><span class="story-number">01</span><h2 class="story-title">Have You Ever Read the Bible?</h2><span class="chevron" aria-hidden="true">⌄</span></summary><div class="story-content"><div class="story-layout"><div class="story-copy"><p>Have you ever read the Bible aloud—not only with your eyes or by listening, but in your own voice?</p><p>Could it be that the Bible was always meant to be read aloud?</p></div><div class="story-art-wrap"><img class="story-art" src="assets/rab-index2-01.png" alt="A closed Bible with a question mark above it"></div></div></div></details>
+          <details class="story-card"><summary><span class="story-number">02</span><h2 class="story-title">Reading the Bible Isn't Easy, Is It?</h2><span class="chevron" aria-hidden="true">⌄</span></summary><div class="story-content"><div class="story-layout"><div class="story-copy"><p>Have you ever meant to read the Bible, but kept putting it off?</p><p>Even when you want to read, isn't opening the Bible sometimes the hardest part?</p><p>Have you ever finished reading and still felt as though you hadn't really read it?</p><p>Has God's Word ever seemed to pass by too quickly?</p></div><div class="story-art-wrap"><img class="story-art" src="assets/rab-index2-02.png" alt="A man thinking over an open Bible"></div></div></div></details>
+          <details class="story-card"><summary><span class="story-number">03</span><h2 class="story-title">Record Aloud Bible: A New Way to Read the Bible.</h2><span class="chevron" aria-hidden="true">⌄</span></summary><div class="story-content"><div class="story-layout"><div class="story-copy"><p>Point to each verse as you read. Seeing it, saying it, and hearing it helps you focus fully on God's Word.</p><p>Even three minutes a day can become time set apart for you and God. Try Record Aloud Bible.</p><p>The goal is not only to keep a recording, but to make time to focus on God's Word.</p><p>If someone hears you and it feels awkward, you can simply say, “I'm recording.”</p></div><div class="story-art-wrap"><img class="story-art" src="assets/rab-index2-03.png" alt="A woman reading aloud while pointing to a verse on her phone"></div></div></div></details>
+          <details class="story-card"><summary><span class="story-number">04</span><h2 class="story-title">Start with One Verse Today.</h2><span class="chevron" aria-hidden="true">⌄</span></summary><div class="story-content"><div class="story-layout"><div class="story-copy"><p>The words you read are recorded and saved in your own voice.</p><p>Back up and restore your recordings with Google Drive, even when you change phones.</p><p>At church or in a small group, read together, organize Bible reading challenges, and encourage one another.</p><p>One verse becomes a chapter, and one chapter becomes a book—God's Word speaking personally to you.</p></div><div class="story-art-wrap"><img class="story-art" src="assets/rab-index2-04.png" alt="People reading together on their phones"><span class="story-art-logo"><img src="../images/Logo_RAB.png" alt="Record Aloud Bible logo"></span></div></div></div></details>
         </div>
       </section>
-      <section class="closing" aria-label="Record Aloud Bible download"><div class="closing-copy"><p>Today's verse,<br>kept in your voice.</p><span>Not just reading, but also recording.</span></div><div class="store-links"><a href="https://apps.apple.com/app/id1554443046" target="_blank" rel="noopener"><img src="../images/Download_apple.png" alt="Download on the App Store"></a><a href="https://play.google.com/store/apps/details?id=life.fci.recordaloudbible" target="_blank" rel="noopener"><img src="../images/Download_google.png" alt="Get it on Google Play"></a></div></section>
+      <section class="closing" aria-label="Record Aloud Bible download"><div class="closing-copy"><p>Focus fully on one verse—<br>with your hands, eyes, voice, and ears.</p><span>From simply seeing or hearing God's Word to reading it aloud.</span></div><div class="store-links"><a href="https://apps.apple.com/app/id1554443046" target="_blank" rel="noopener"><img src="../images/Download_apple.png" alt="Download on the App Store"></a><a href="https://play.google.com/store/apps/details?id=life.fci.recordaloudbible" target="_blank" rel="noopener"><img src="../images/Download_google.png" alt="Get it on Google Play"></a></div></section>
     </main>
-    <footer>Copyright FCI. All rights reserved.</footer>
+    <footer><span>© FCI Inc. Factory of Creative Imagination.</span></footer>
   </div>
 </body>
 </html>
